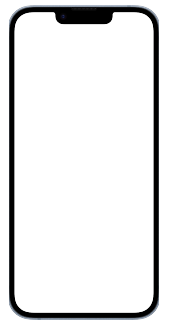
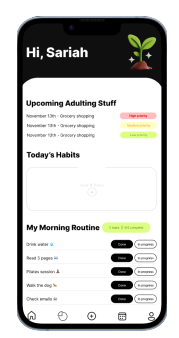
added screen templates

diff --git a/src/components/Features.tsx b/src/components/Features.tsx
@@ -14,33 +14,22 @@ export default function Features() {
   const paragraphRef2 = useRef<HTMLParagraphElement | null>(null);
   useGSAP(
     () => {
-      gsap.to('.phone', 
-      {
-        y:600,
-        scrollTrigger: {
-          trigger: '.phone',
-          start: 'center',
-          scrub: true,
+    gsap.fromTo('.title, .feature-description, .phone', {
+      x:-300,
+      opacity: 0,
+    },
+    {
+      x:0,
+      opacity: 1,
+      duration: 0.6,
+      stagger:0.3,
+      scrollTrigger: {
+        trigger: '.features',
+          start: 'top 100px',
         }
       })
 
-      gsap.fromTo('.title, .feature-description', {
-        x:-300,
-        opacity: 0,
-
-      },
-        {
-          x:0,
-          opacity: 1,
-          duration: 0.6,
-          stagger:0.3,
-          scrollTrigger: {
-            trigger: '.features',
-            start: 'top 100px',
-          }
-        })
-
-        gsap.fromTo('.title-2, .feature-description-2', {
+      gsap.fromTo('.title-2, .feature-description-2, .phone-2', {
           x:-300,
           opacity: 0,
   
@@ -60,7 +49,7 @@ export default function Features() {
   return (
     <section>
 
-      <div className="features flex flex-col items-center h-[70vh]">
+      <div className="features flex flex-col items-center">
         <div className="px-10 text-center mb-10">
           <h2 ref={titleRef} className="title text-2xl font-semibold mb-5">Build Independence</h2>
           <p ref={paragraphRef} className='feature-description'>Grownify helps you track of habits like grocery shopping, meal prepping, or keeping living spaces organized which are essential for developing self-sufficiency and independence.</p>
@@ -68,11 +57,12 @@ export default function Features() {
         <img ref={imgRef} src="/iphone.png" alt="iphone" className='phone' />
       </div>
 
-      <div className="feature-2 flex flex-col items-center h-[70vh]">
+      <div className="feature-2 flex flex-col items-center mt-[3rem]">
         <div className="px-10 text-center mb-10">
           <h2 ref={titleRef2} className="title-2 text-2xl font-semibold mb-5">Self-Care and Mental Health</h2>
           <p ref={paragraphRef2} className='feature-description-2'>Track and be reminded of relaxation, mindfulness, journaling, or digital detox habits that can help you manage stress and prioritize your mental health.</p>
         </div>
+        <img ref={imgRef} src="/iphone.png" alt="iphone" className='phone-2' />
       </div>
     </section>
     

diff --git a/src/components/Downloads.tsx b/src/components/Downloads.tsx
@@ -3,12 +3,12 @@ import NumberTicker from "@/components/ui/number-ticker";
 
 export default function Downloads() {
   return (
-    <section className="mt-[5rem] bg-light-green relative z-100 py-3">
-        <h2 className="mb-5 text-3xl">Over</h2>
+    <section className="mt-[5rem] relative z-100 h-[30vh] justify-center">
+        <h2 className="mb-3 text-2xl">Over</h2>
         <p className="whitespace-pre-wrap text-5xl font-bold tracking-tighter">
           <NumberTicker value={10000} />
         </p>
-        <h2 className="mt-5 text-3xl">Downloads</h2>
+        <h2 className="mt-3 text-2xl">Downloads</h2>
     </section>
   )
 }

diff --git a/src/components/Hero.tsx b/src/components/Hero.tsx
@@ -103,7 +103,7 @@ export default function Hero() {
         <img className="h-8" src="/googleplay.png" alt="google play store badge" />
       </div>
 
-      <div className="mt-5 w-full flex overflow-x-hidden justify-center py-8 lg:h-[100vh]">
+      <div className="mt-5 w-full flex overflow-x-hidden h-[60vh] justify-center py-8 lg:h-[100vh]">
         <img ref={leftPhoneRef} src="/iphone.png" alt="" />
         <img ref={middlePhoneRef} src="/iphone.png" alt="" />
         <img ref={rightPhoneRef} src="/iphone.png" alt="" />
